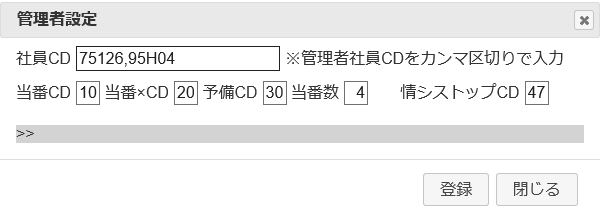
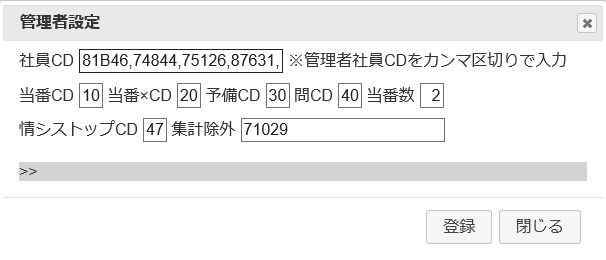
集計除外ヘルプ修正

diff --git a/shift/docadmin.html b/shift/docadmin.html
@@ -103,6 +103,7 @@ img {
     <p>・ 社員CD欄へは管理者の社員CDをカンマ区切りで入力することで当該社員は管理者メニューを利用することが可能となります。<br>
     ・ 当番CD・当番×・予備CDはボタン設定のCDを入力し、当番数は休祭日の当番割当数を入力します。<br>
     当番CD・予備CD・当番数は「当番割当処理」にて利用されます。当番×CDは「確定処理」にて利用します。<br>
-    ・ 情報システム部トップCDは対象社員一覧の再読込時に利用されます。</p>
+    ・ 情報システム部トップCDは対象社員一覧の再読込時に利用されます。<br>
+    ・ 集計除外は管理職計の集計に除外する社員番号を入力します。複数の場合はカンマ区切りで入力します。</p>
 </body>
 </html>
